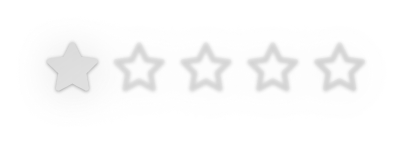
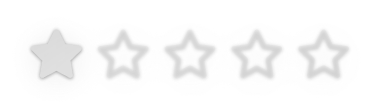
Updating stars to be more aligned

diff --git a/resources/css/style.less b/resources/css/style.less
@@ -306,19 +306,19 @@ body {
                     }
 
                     .stars {
-                        width: 200px;
-                        height: 64px;
+                        width: 190px;
+                        height: 56px;
                         font-size: 0;
                         display: inline-block;
                         background-size: 100%;
                         background-repeat: no-repeat;
                     
                         @media @mobile {
-                            margin-left: -20px;
+                            margin-left: -14px;
                         }
 
                         @media @desktop {
-                            margin-right: -20px;
+                            margin-right: -14px;
                         }
                     }
                 }
